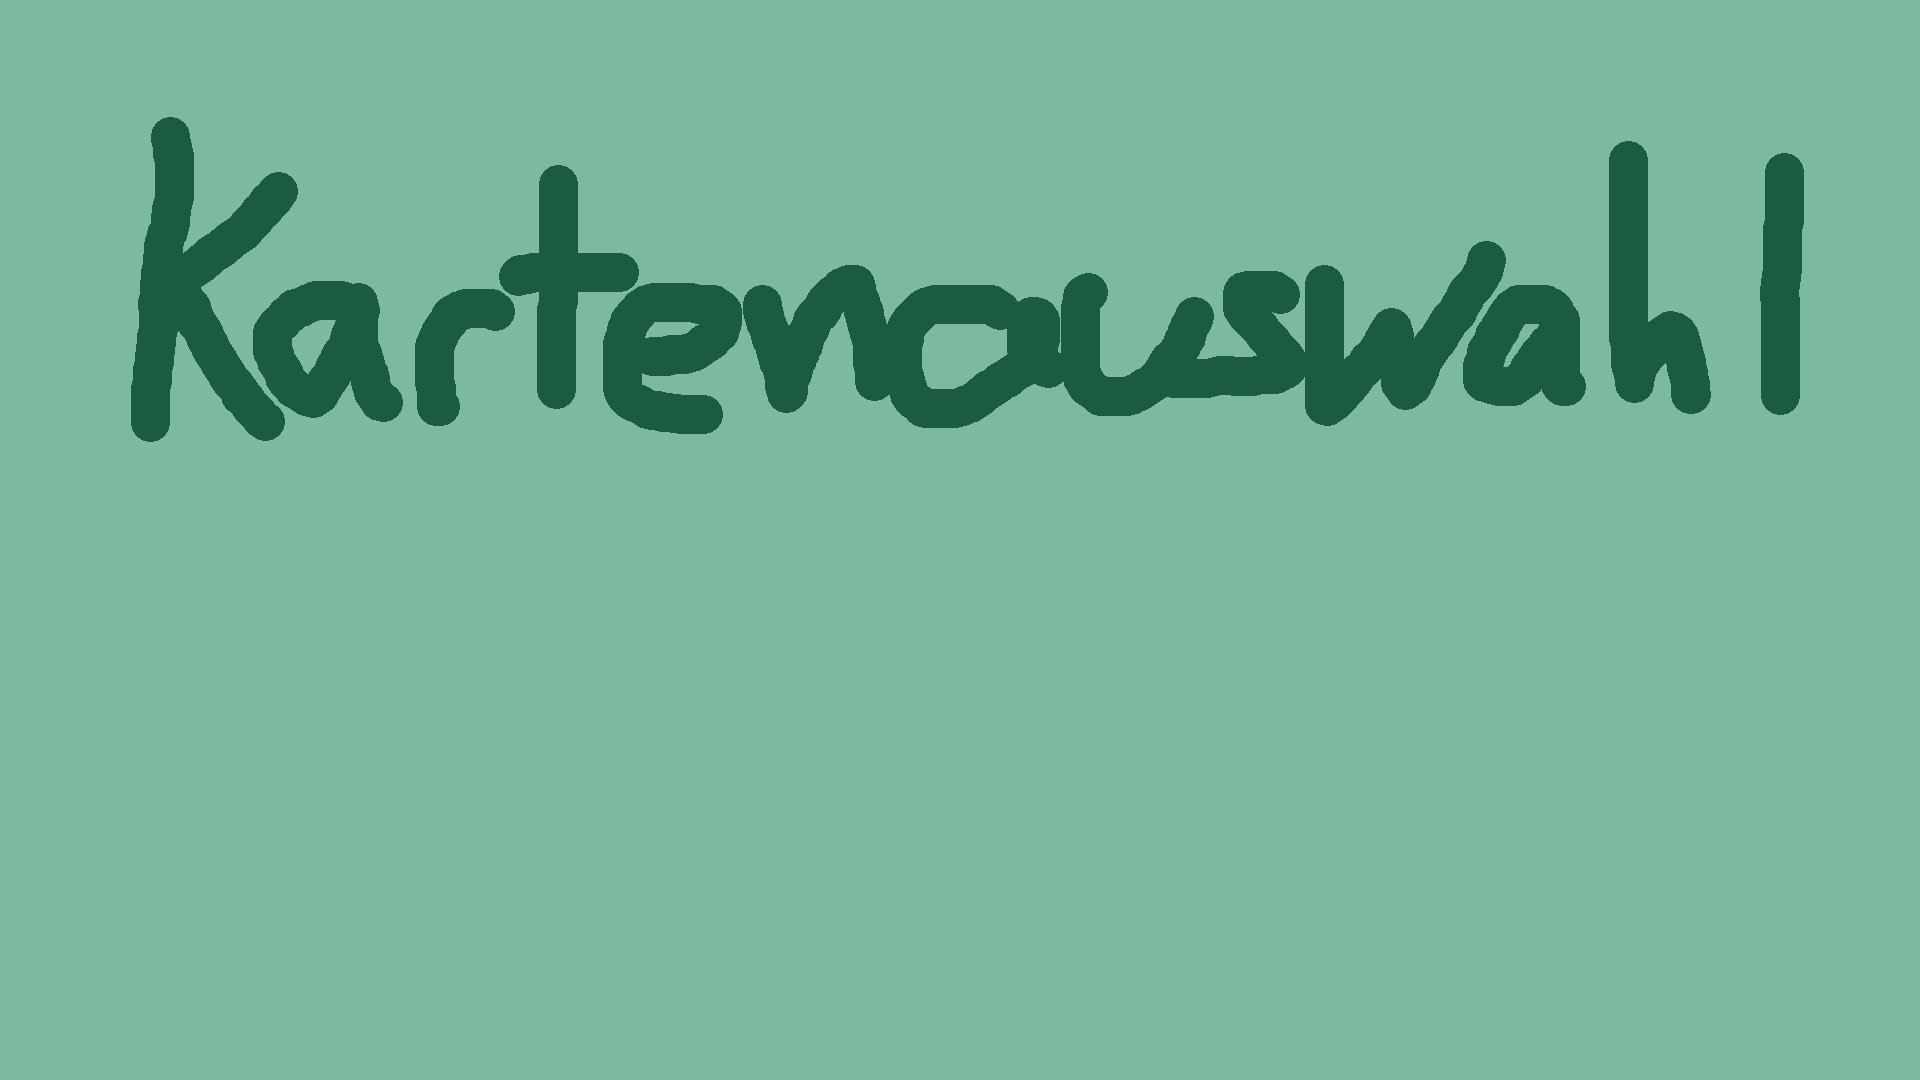
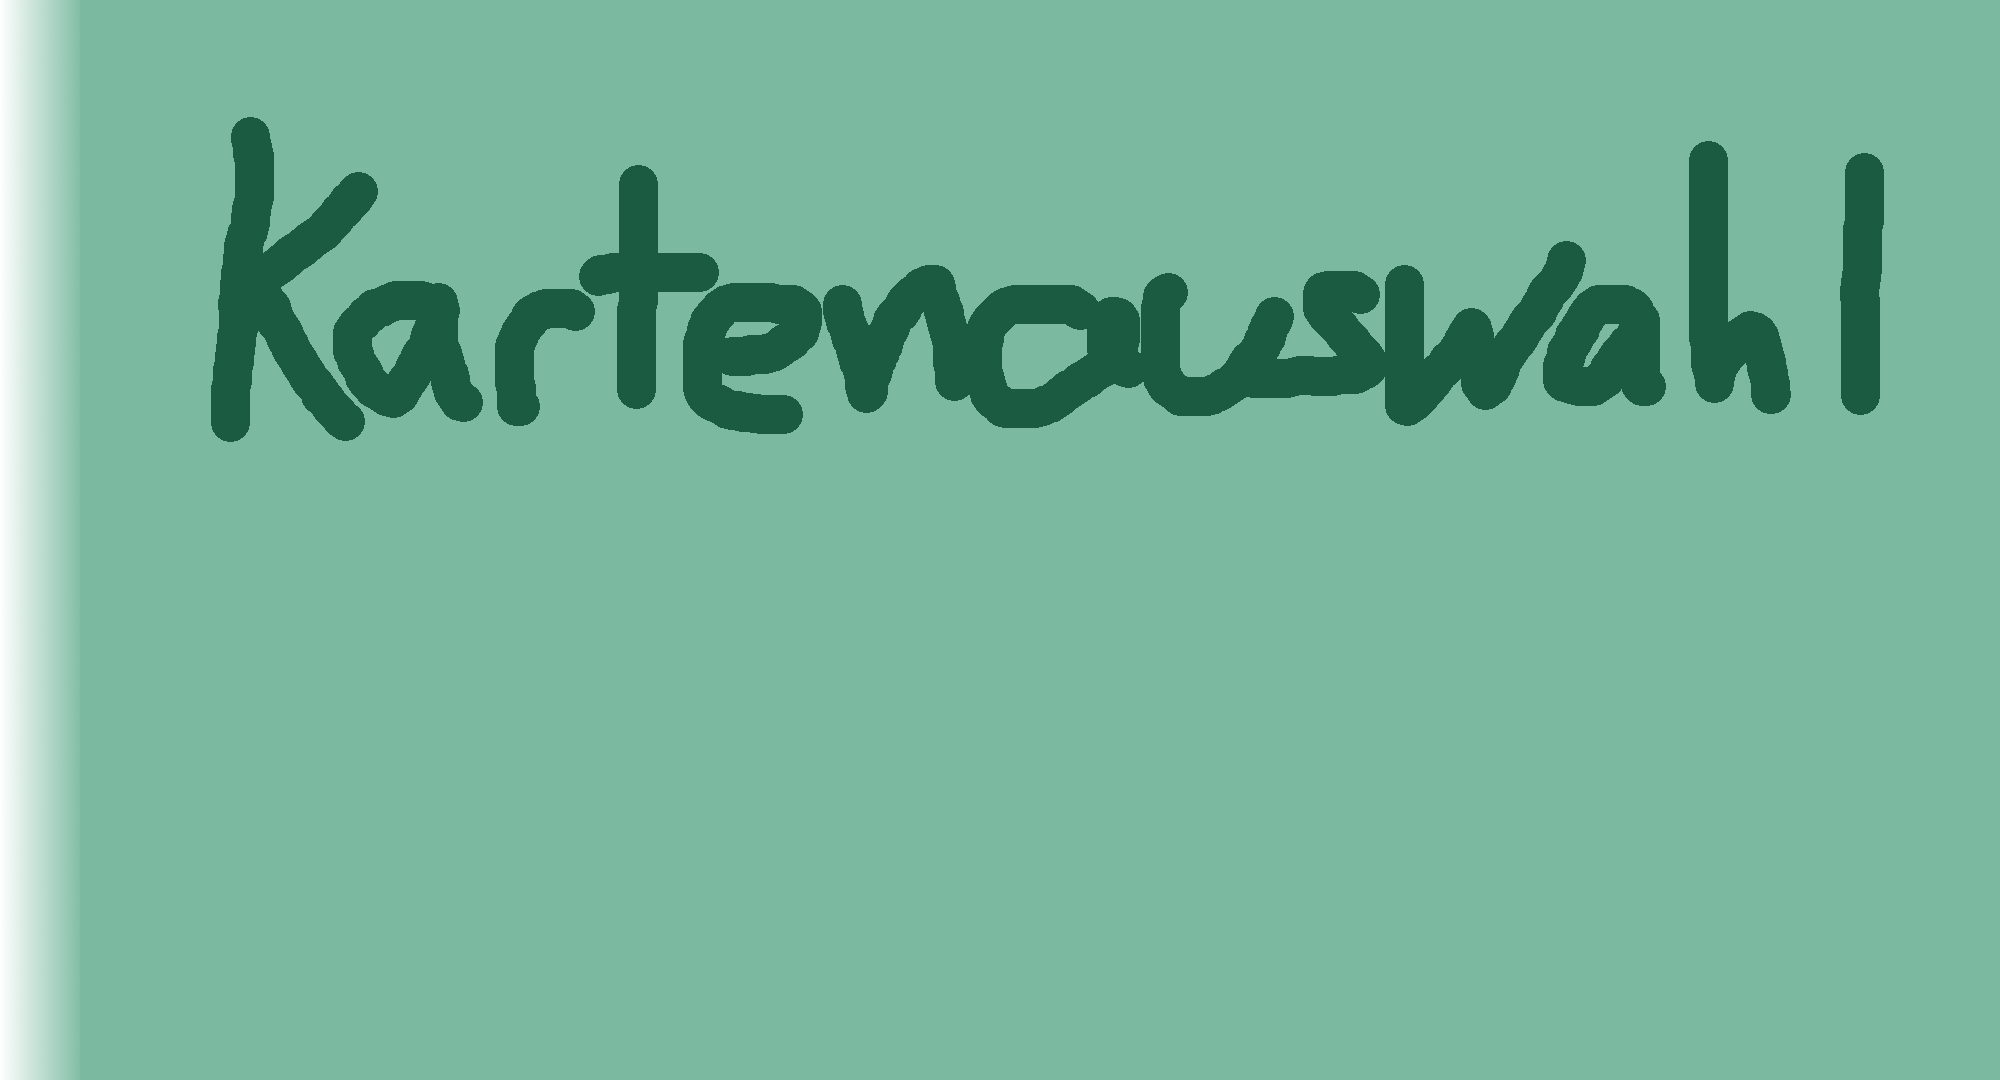
Fehler in KARTENAUSWAHL behoben

Changed region(s): [[0.0, 0.0, 0.9375, 1.0], [0.7812, 0.3667, 0.8125, 0.3972]]

diff --git a/src/KARTENAUSWAHL.java b/src/KARTENAUSWAHL.java
@@ -15,7 +15,7 @@ class KARTENAUSWAHL implements UIOBJEKT
 	//erzeugt das Auswahlmenue
 	KARTENAUSWAHL()
 	{
-		hintergrund = new BILD("grafiken/kartenauswahl/hintergrund.png", new VEKTOR(960, 540), 0, 5);
+		hintergrund = new BILD("grafiken/kartenauswahl/hintergrund.png", new VEKTOR(920, 540), 0, 5);
 		karten = new TASTER[anzahlKarten];
 		for (int i = 1; i <= karten.length; ++i)
 		{
